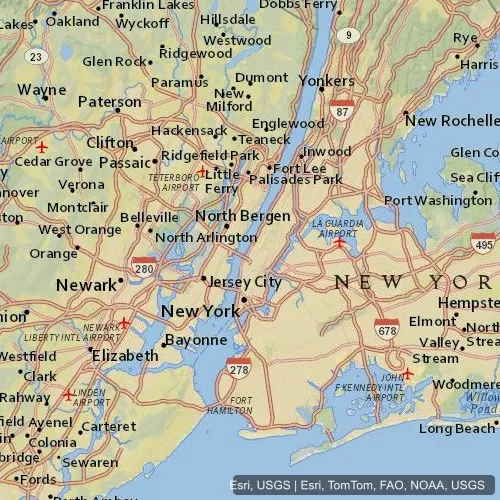
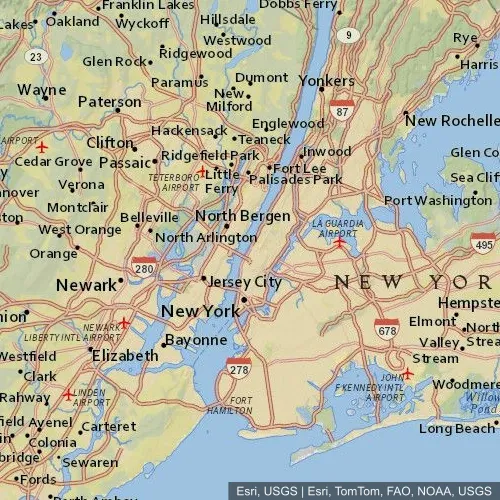
removed round corners of attribution background an margin

Changed region(s): [[0.45, 0.93, 1.0, 1.0]]

diff --git a/src/utils/attribution.ts b/src/utils/attribution.ts
@@ -15,8 +15,8 @@ export function createAttributionSVG(
   height: number
 ): Buffer {
   const fontSize = 12
-  const paddingX = 10
-  const paddingY = 4
+  const paddingX = 8
+  const paddingY = 3
   const margin = 0
 
   // Estimate text width
